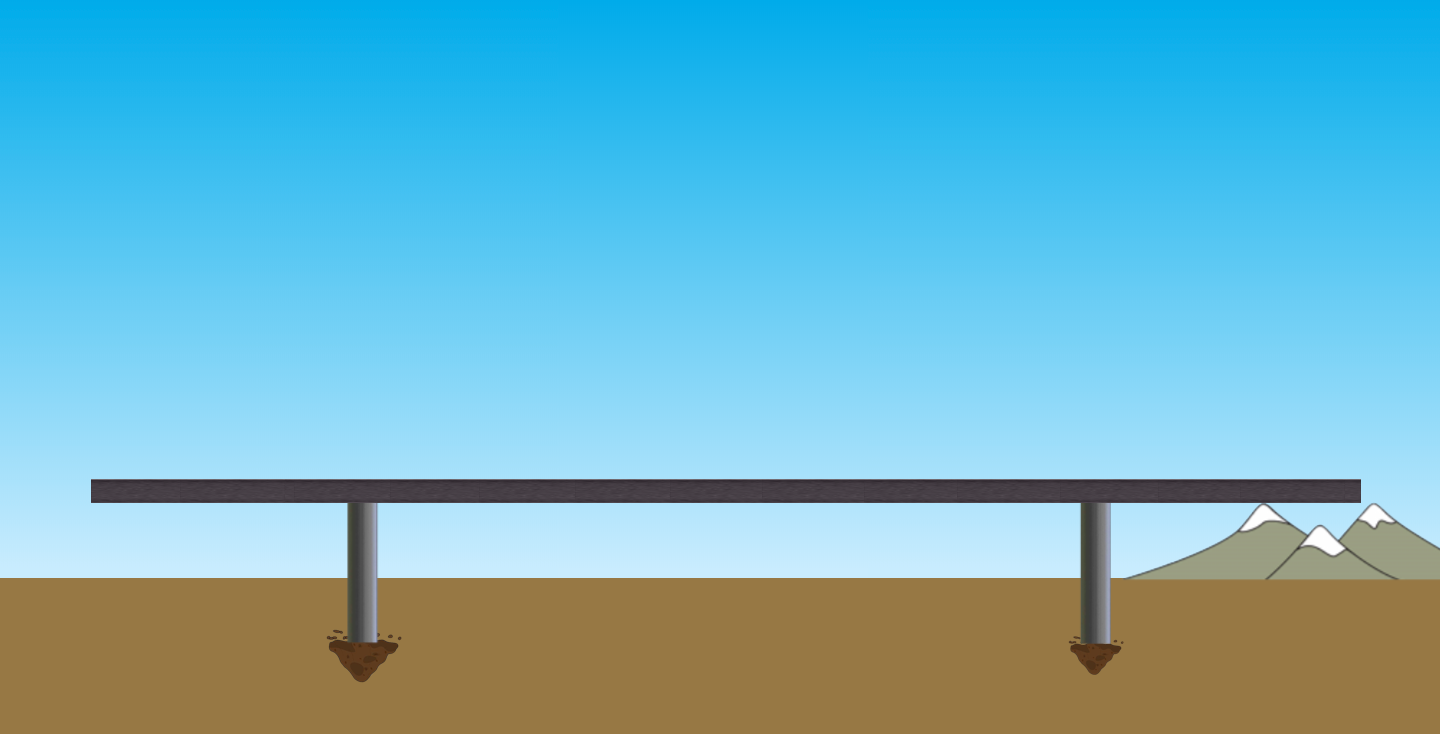
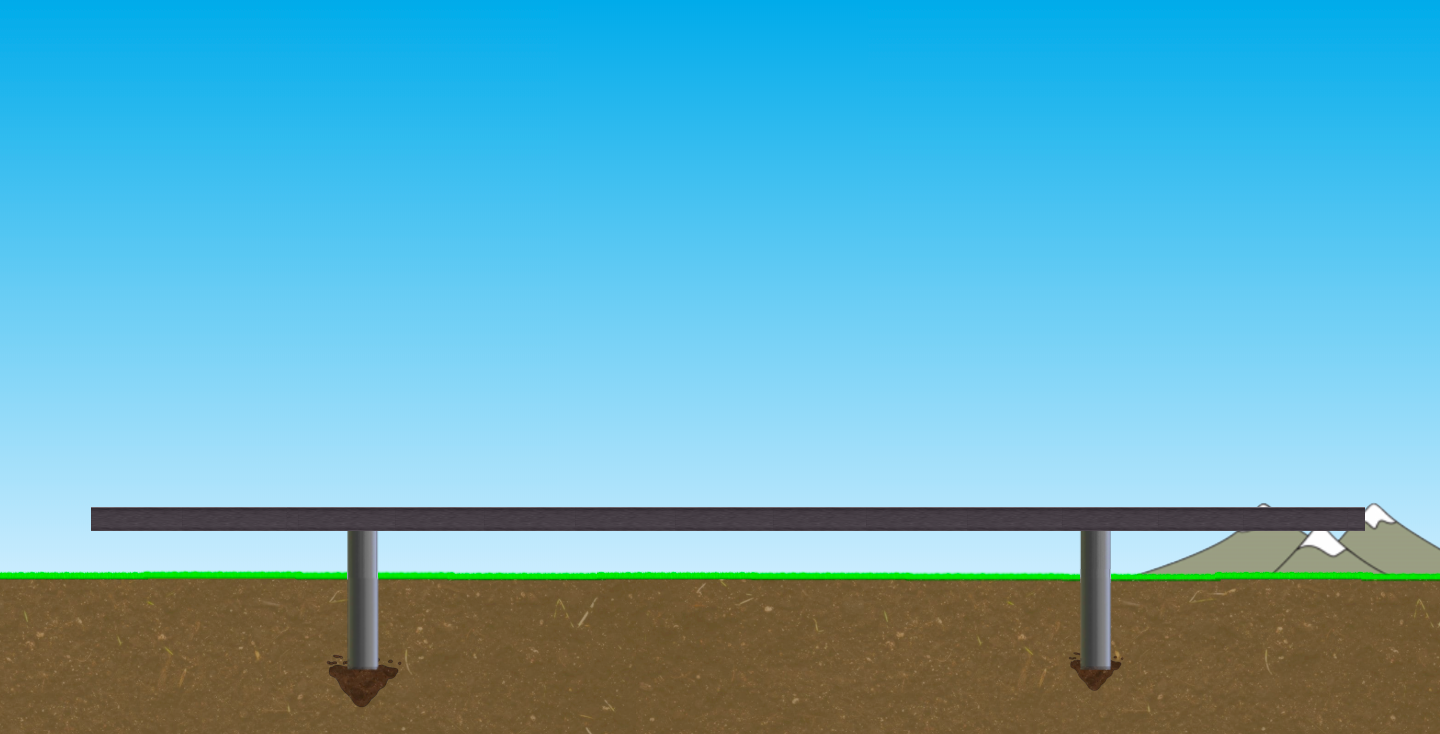
added bakcground and control panels

Changed region(s): [[0.0, 0.7793, 1.0, 1.0], [0.0625, 0.6294, 0.9688, 0.7493]]

diff --git a/Js/Controllers/CollisionTheoryController.js b/Js/Controllers/CollisionTheoryController.js
@@ -15,16 +15,34 @@
 // import modules
 import CollisionTheoryView from "../Views/CollisionTheoryView.js";
 
-
-// create the instances for the view 
-var view = new CollisionTheoryView(); 
-
 /**
  * @public 
  * provide a class for outside modules
  */
 export default class Controller {
-  
+  /**
+   * @public 
+   * @constructor
+   * create the instance of the view and the model.
+   */
+  constructor(){
+    // create the instances for the view 
+    this.view = new CollisionTheoryView(); 
+    let cart1Panel = this.view.addControlPanel({
+      left: "50px",
+      top: "20px"
+    });
+    let cart2Panel = this.view.addControlPanel({
+      left: 50 * 2 + 250 + "px",
+      top: "20px"
+    });
+    let controlPanel = this.view.addControlPanel({
+      right: "50px",
+      height: "300px",
+      top: "20px",
+      border: "3px solid orange"
+    });
+  }
   /**
    * @public 
    * render the basic view 
@@ -32,27 +50,6 @@ export default class Controller {
   run(){
     // this.renderBasics()
   }
-  /**
-   * @public 
-   * render the header, control panels, TODO
-   */
-  // renderBasics(){
-  //   let home = view.addImageToFooter( "home" );
-  //   home.setAttribute( "src", "./assets/home.png" );
-  //   // handle user input
-  //   home.onmouseover = function() { 
-  //     home.setAttribute( "src", "./assets/homeHover.png" );
-  //   };
-  //   home.onmouseout = function() { 
-  //     home.setAttribute( "src", "./assets/home.png" );
-  //   };
-  //   view.addControlPanel();
 
-
-  //   let title = view.addTextToFooter( "Collision Theory", "title" );
-  //   let author = view.addTextToFooter( "By Brandon Li", "author" );
-
-  // }
-  // TODO add buttons to the control panel, 
 }
 

diff --git a/Js/Views/CollisionTheoryView.js b/Js/Views/CollisionTheoryView.js
@@ -29,34 +29,16 @@ export default class View {
       author: "Brandon Li"
     });
     this.screen = new ScreenView( this.sim.screenView.rootNode )
-
-
-    this.sim = this.sim.sim;
+    this.simNode = this.sim.sim;
   }
-  // addImageToFooter( id ){
-  //   let image = screen.addChildToParentNode( 
-  //                 "img", id, 
-  //                 null, "", this.footer );
-  //   // controller sets up event listeners
-  //   return image;
-  // }
-  // addTextToFooter( text, id ){
-  //   let textNode = screen.addChildToParentNode( 
-  //                 "div", id, 
-  //                 null, text, this.footer );
-  //   // controller sets up event listeners
-  //   return textNode;
-  // }
   /**
-   * add a control planner to the view // this is just the background 
-   * @public
-   * @param { options } - different attributes {
-      
-   }
+   * @param {object} options - the style of the control panel itself
+   * @return {node} - the control panel
    */
-  // addControlPanel( options ){
+  addControlPanel( options ){
+    return this.sim.addControlPanel( options )
+  }
 
-  // }
 
 }
 
